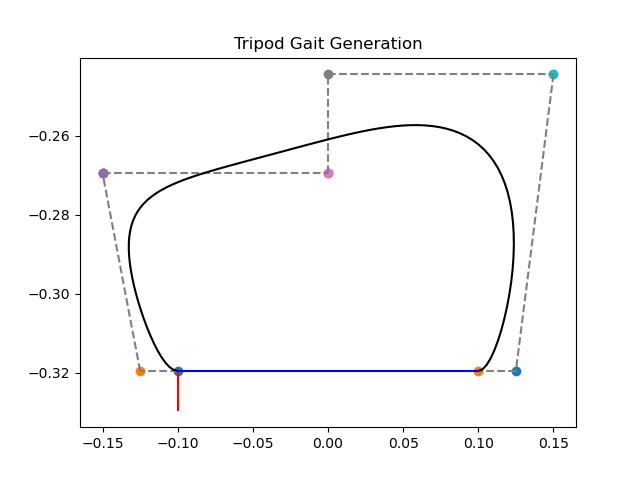
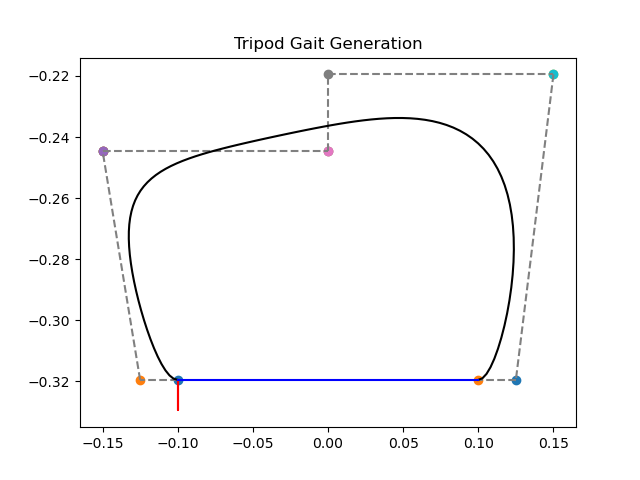
Add step height parameter

diff --git a/custom_gait/src/custom_gait.cpp b/custom_gait/src/custom_gait.cpp
@@ -73,8 +73,20 @@ public:
     gait_type = static_cast<GaitType>(get_parameter("gait_type").as_int());
     RCLCPP_INFO_STREAM(get_logger(), gait_type << " gait_type");
 
+    declare_parameter("tripod_offset", 1);
+    tripod_offset = get_parameter("tripod_offset").as_int();
+    RCLCPP_INFO_STREAM(get_logger(), tripod_offset << " tripod_offset");
+
+    declare_parameter("step_height", 0.05);
+    step_height = get_parameter("step_height").as_double();
+    RCLCPP_INFO_STREAM(get_logger(), step_height << " step_height");
+
     if ((stand_percentage < 0.05) || (stand_percentage > 0.95)) {
       throw std::logic_error("Stand percentage must be between 0 and 1!");
+    }
+
+    if (tripod_offset < 1) {
+      throw std::logic_error("Tripod Offset must be 1 or more!");
     }
 
     // declare_parameter("torque", 1.0); // tau
@@ -173,7 +185,8 @@ private:
   // y coordinate the foot is at WRT hip when standing still
   double liedown_y, liedown_calf, liedown_thigh;
   // for reading in parameters
-  double rate_hz, stroke_length, standup_time, stiffness, damping, delta, stand_percentage;
+  double rate_hz, stroke_length, standup_time, stiffness, damping, delta,
+         stand_percentage, tripod_offset, step_height;
 
   /// @brief Initialize the low command message for when the dog first gets connected
   void init_low_cmd()
@@ -197,8 +210,7 @@ private:
     const auto lspan = 0.5 * stroke_length;   // half of "stroke length", ie how long it's on the floor
     const auto dl = 0.025;   // extra bit to extend by after leaving floor
     const auto ddl = 0.025;   // another extra bit to extend by LOL
-    const auto swing_height = 0.075;   // controls the height of the swing off the floor
-    const auto dswing_height = 0.025;   // another bit to extend by
+    const auto dstep_height = 0.025;   // another bit to extend by
     ctrl_x = std::vector<double> {
       stand_x + -1.0 * lspan,
       stand_x + -1.0 * lspan - dl,
@@ -215,14 +227,14 @@ private:
     ctrl_y = std::vector<double> {
       stand_y,
       stand_y,
-      stand_y + swing_height,
-      stand_y + swing_height,
-      stand_y + swing_height,
-      stand_y + swing_height,
-      stand_y + swing_height,
-      stand_y + swing_height + dswing_height,
-      stand_y + swing_height + dswing_height,
-      stand_y + swing_height + dswing_height,
+      stand_y + step_height,
+      stand_y + step_height,
+      stand_y + step_height,
+      stand_y + step_height,
+      stand_y + step_height,
+      stand_y + step_height + dstep_height,
+      stand_y + step_height + dstep_height,
+      stand_y + step_height + dstep_height,
       stand_y,
       stand_y};
 
@@ -271,7 +283,7 @@ private:
     RCLCPP_INFO_STREAM(get_logger(), "Generate Tripod Gait");
     long tripod_npoints = 0.5 * period;
     long npoints_sin = 0.5 * period;
-    long npoints_wait = 7 * period;
+    long npoints_wait = (4 * tripod_offset - 1) * period;
 
     std::vector<double> bez_x = gaitlib::bezier(ctrl_x, tripod_npoints);
     std::vector<double> bez_y = gaitlib::bezier(ctrl_y, tripod_npoints);
